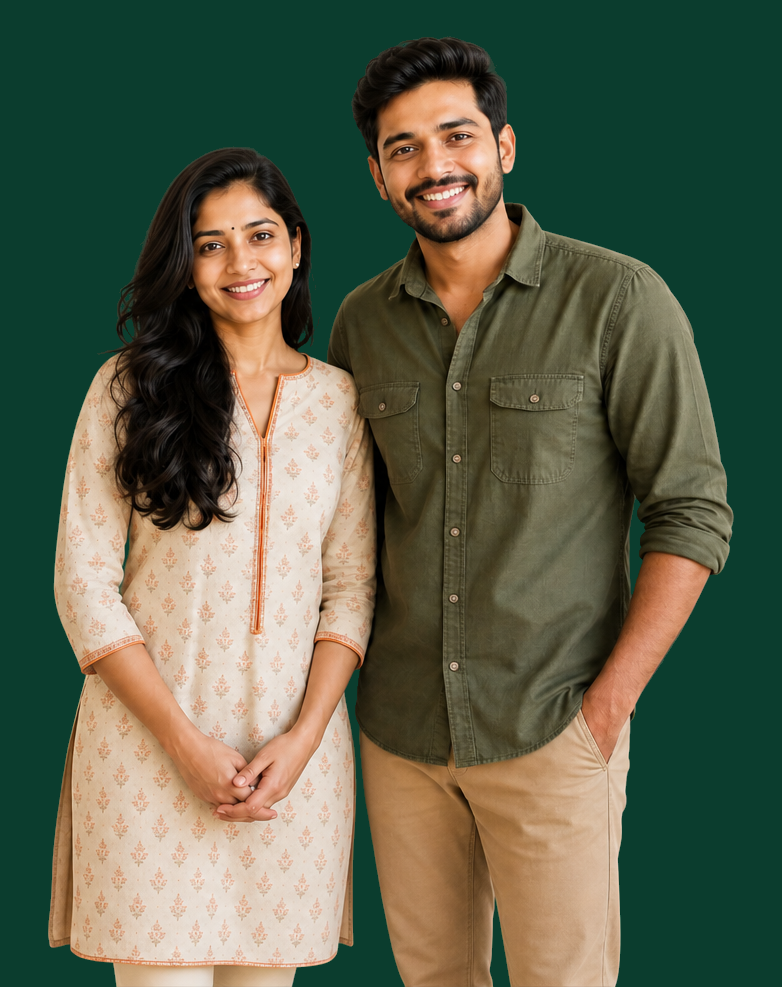
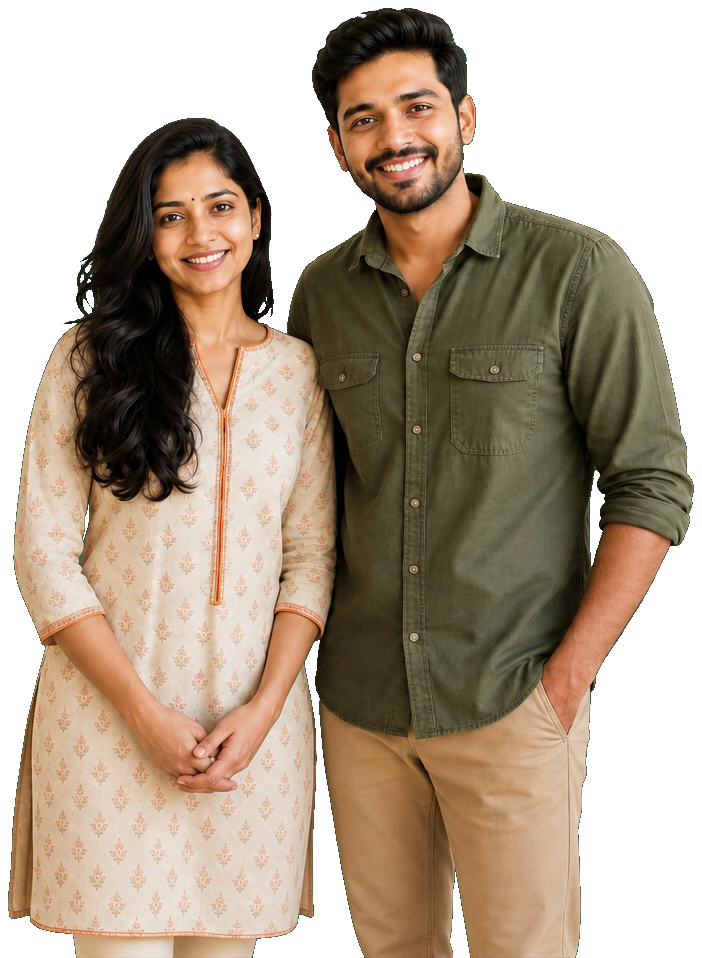
Make hero couple a transparent cutout (#19)
Remove the solid green photo backdrop so it no longer paints a green rectangle onto the page, and clip the curve fill with a pseudo-element so only the people overflow the box.

diff --git a/src/styles/home.css b/src/styles/home.css
@@ -453,10 +453,19 @@ header.nav.nav-menu-open .nav-inner {
   grid-template-columns: minmax(300px, 0.92fr) minmax(320px, 1.18fr);
   align-items: stretch;
   min-height: min(92vh, 740px);
+  background: transparent;
+  overflow: visible;
+}
+
+.hero-curve::before {
+  content: '';
+  position: absolute;
+  inset: 0;
+  z-index: 0;
   background: var(--forest);
   border-bottom-left-radius: clamp(72px, 16vw, 168px);
-  overflow: visible;
   box-shadow: 0 28px 60px -36px rgba(11, 61, 46, 0.45);
+  pointer-events: none;
 }
 
 .hero-copy {
@@ -570,8 +579,9 @@ header.nav.nav-menu-open .nav-inner {
   object-fit: contain;
   object-position: center bottom;
   display: block;
-  margin-bottom: -42px;
-  filter: drop-shadow(0 18px 28px rgba(0, 0, 0, 0.22));
+  margin-bottom: -48px;
+  background: transparent;
+  filter: drop-shadow(0 22px 34px rgba(0, 0, 0, 0.28));
 }
 
 .trust-row {
@@ -1761,6 +1771,9 @@ footer {
     grid-template-columns: 1fr;
     grid-template-rows: auto auto;
     min-height: auto;
+  }
+
+  .hero-curve::before {
     border-bottom-left-radius: clamp(56px, 18vw, 110px);
   }
 
